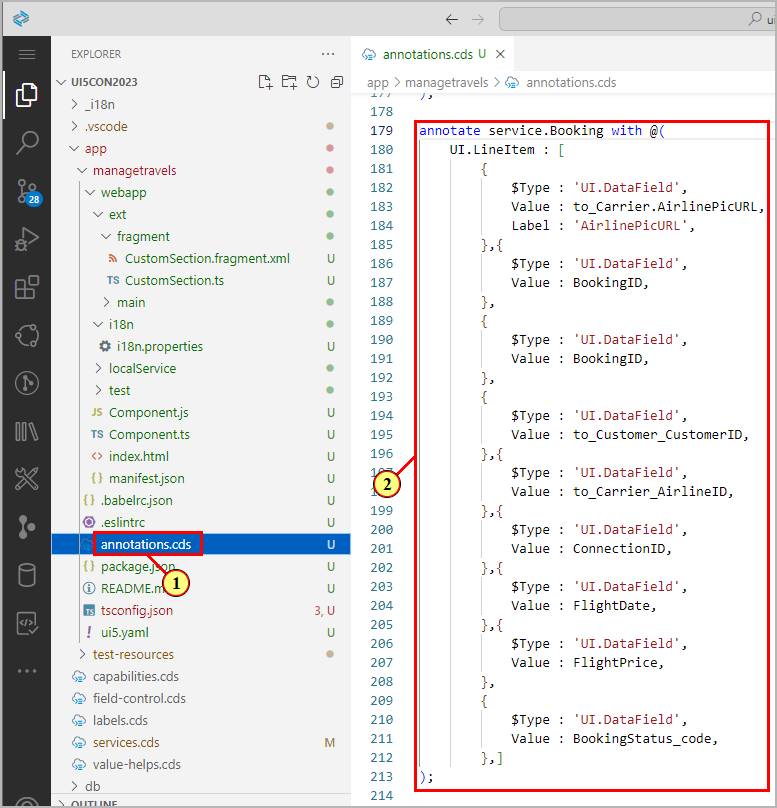
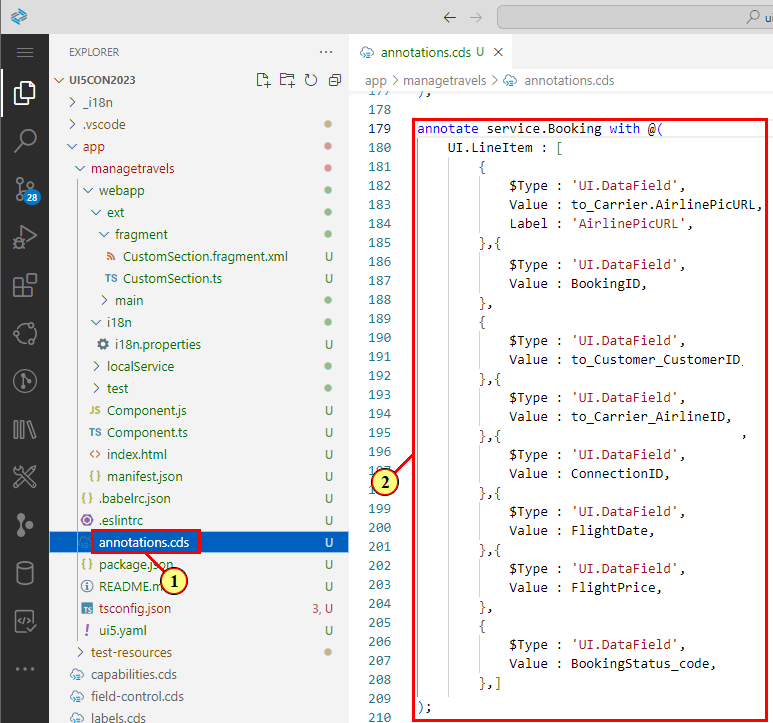
exercises updated

diff --git a/exercises/ex5/README.md b/exercises/ex5/README.md
@@ -20,9 +20,6 @@ annotate service.Booking with @(
             $Type : 'UI.DataField',
             Value : to_Carrier.AirlinePicURL,
             Label : 'AirlinePicURL',
-        },{
-            $Type : 'UI.DataField',
-            Value : BookingID,
         },
         {
             $Type : 'UI.DataField',
